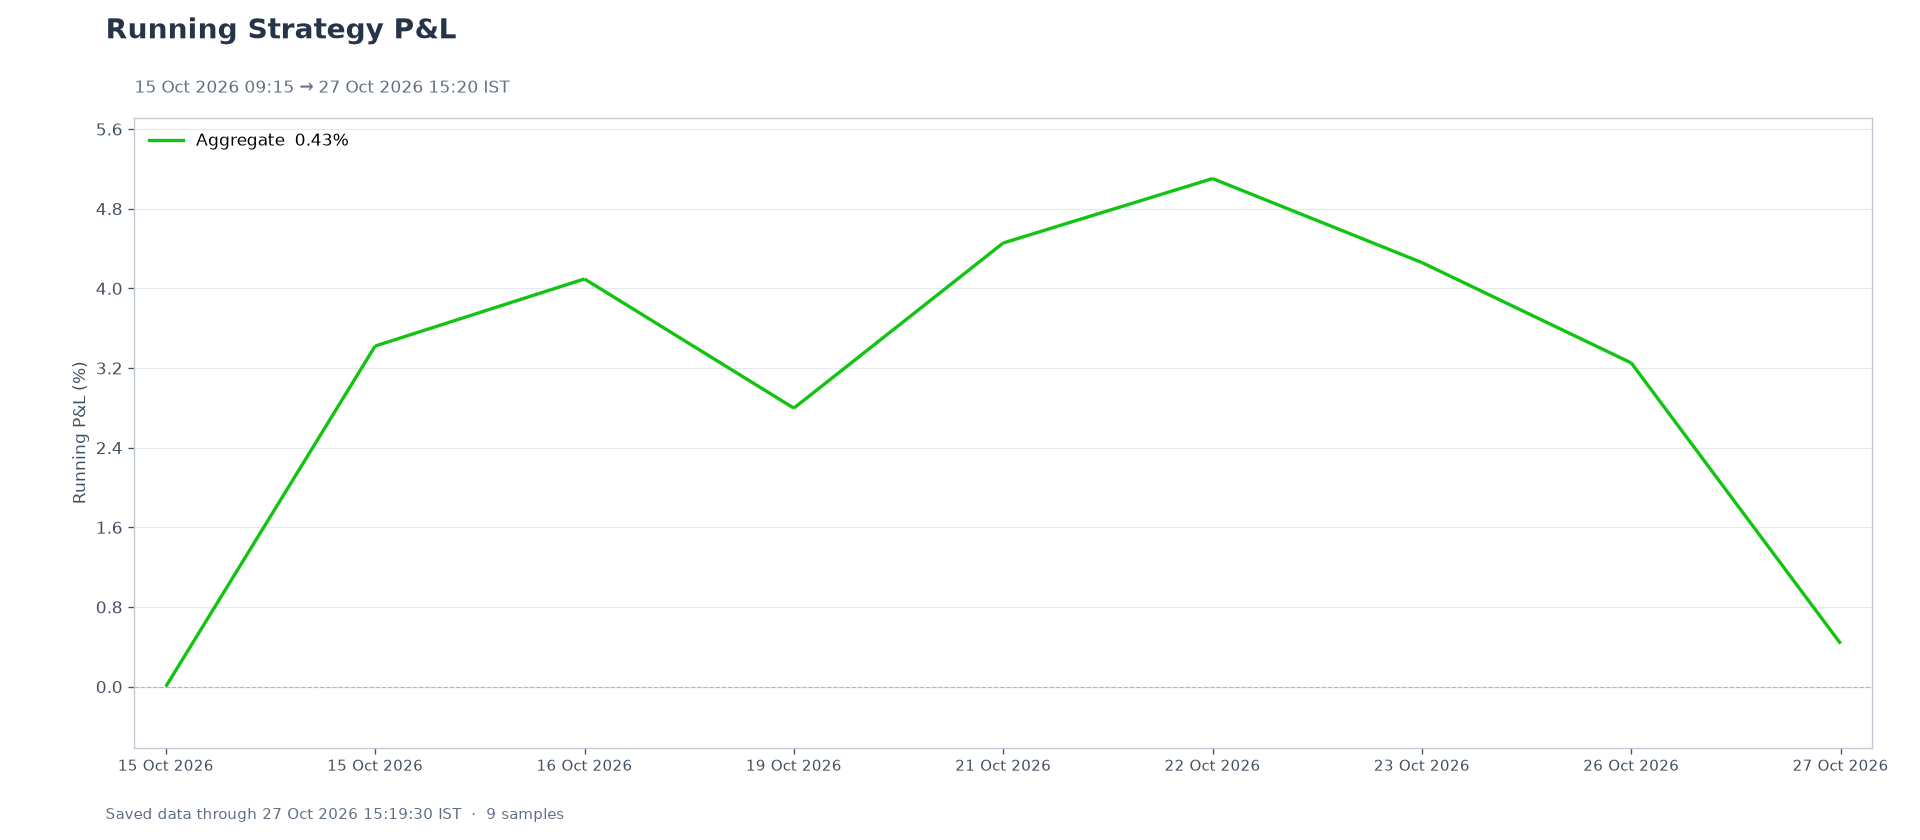
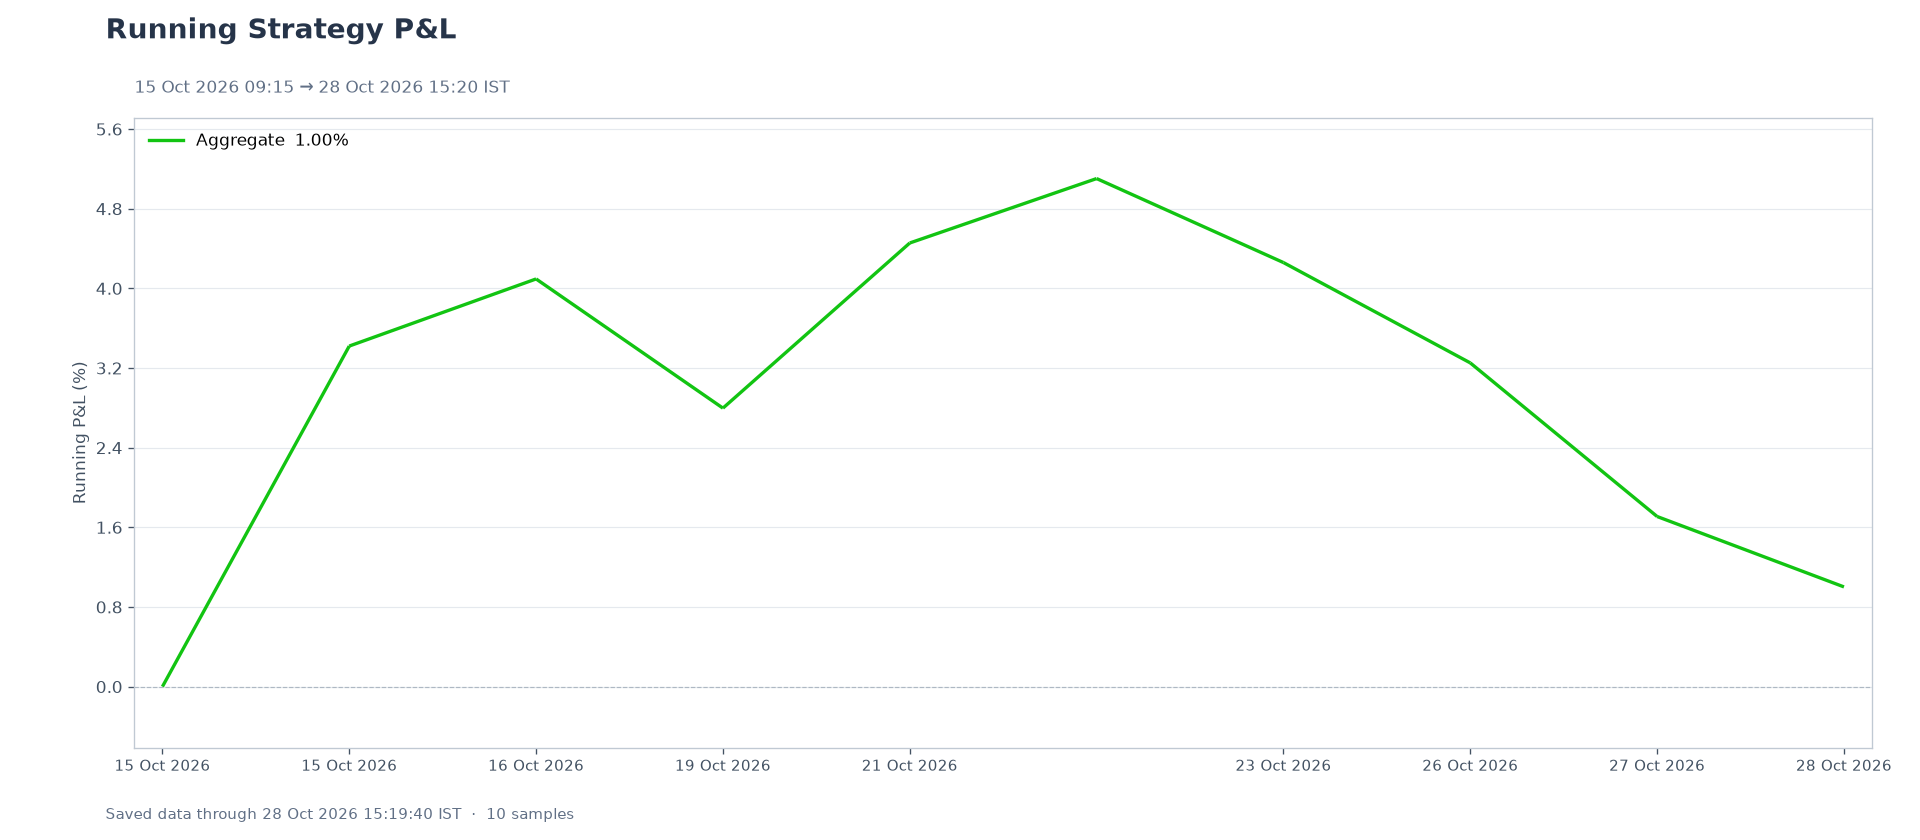
Nabz report 2026-10-28

diff --git a/content/daily/20261028.md b/content/daily/20261028.md
@@ -1,0 +1,9 @@
+---
+title: "20261028"
+date: 2026-10-28T15:20:00+05:30
+slug: "20261028"
+folder: "20261028"
+iso_date: "2026-10-28"
+preview: false
+strategy_today: "1520-strategy-today-REL.png"
+---

diff --git a/content/i/da126376c1b1146112e6.md b/content/i/da126376c1b1146112e6.md
@@ -1,0 +1,4 @@
+---
+title: "Today's P&L"
+image: "i/da126376c1b1146112e6.png"
+---
